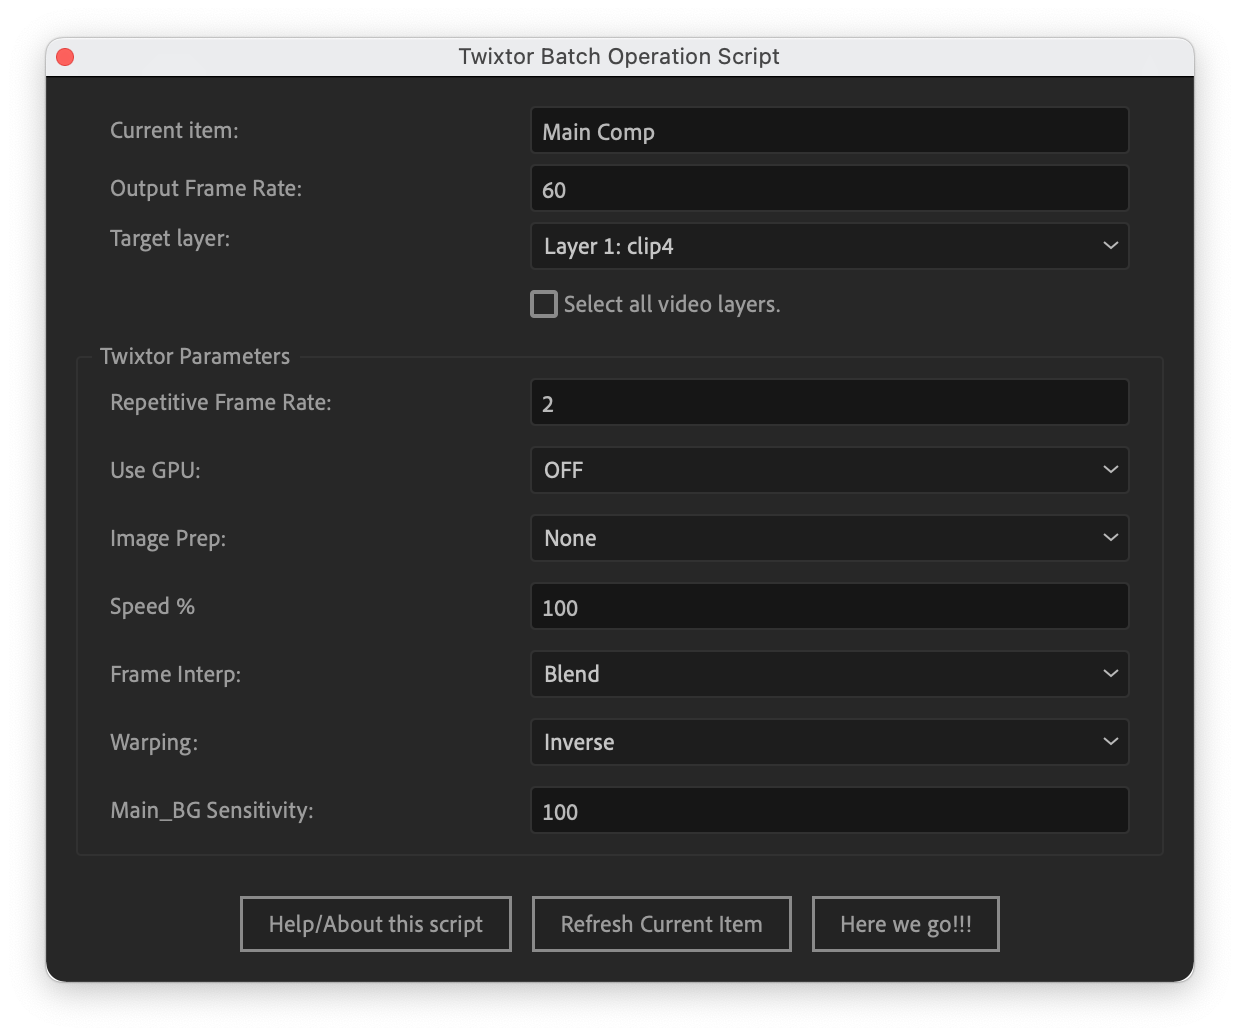
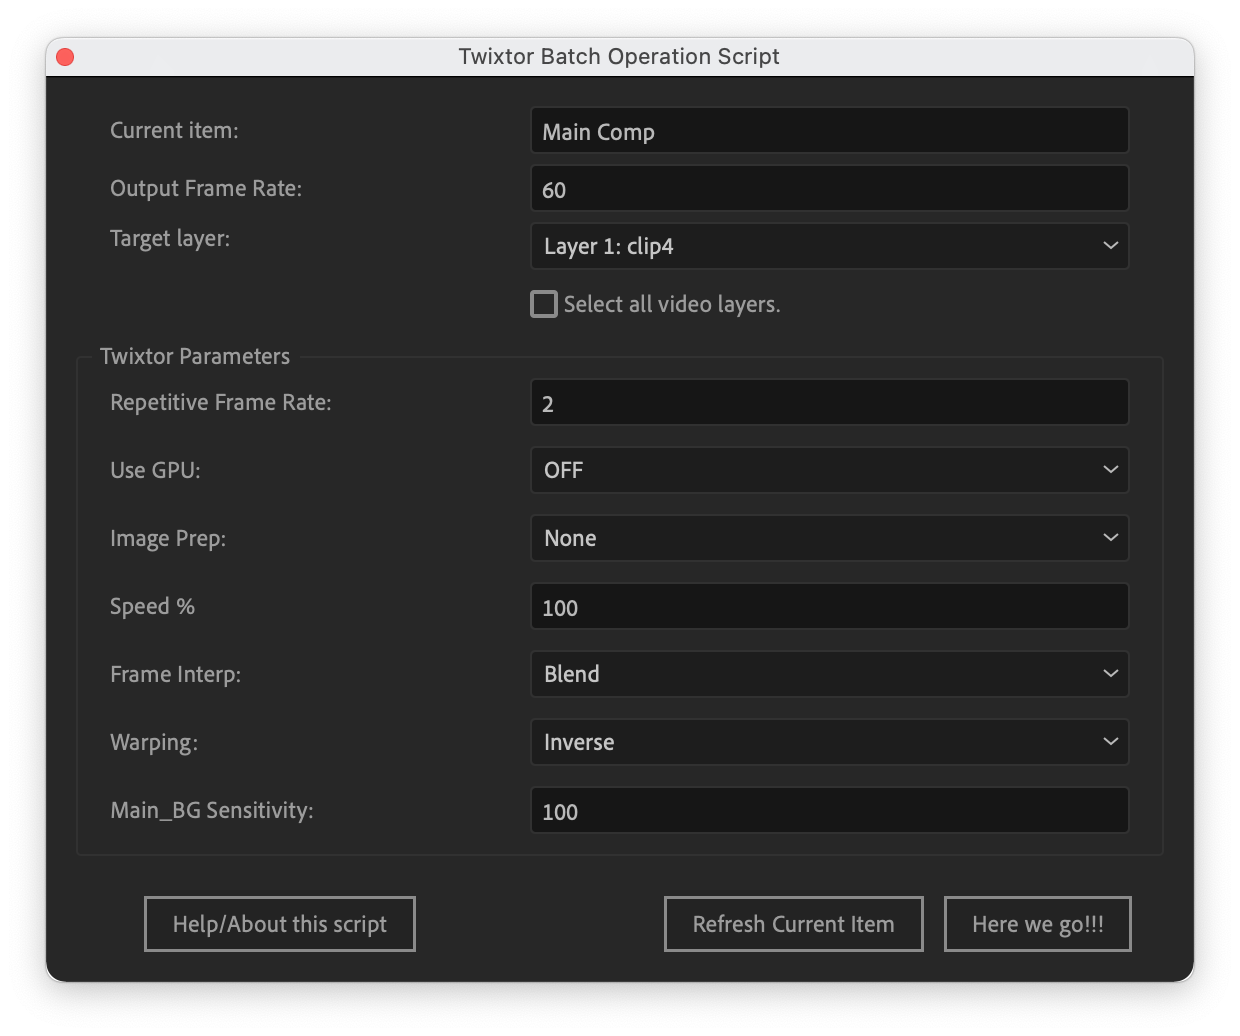
redesign the button alignment; add notation about repetitive frame rate into readme files; update the screenshot

Changed region(s): [[0.1226, 0.8649, 0.9194, 0.9266]]

diff --git a/twixtor-batch-operation-script.jsx b/twixtor-batch-operation-script.jsx
@@ -13,6 +13,7 @@
             // const graphic size variables
             const textWidth = 200;
             const inputWidth = 300;
+            const halfSizeWidth = (textWidth + inputWidth) / 2;
 
             // dropdown list choice data collection (initialization)
             var curComp = getCurrentComp();
@@ -100,7 +101,6 @@
                     var mainBgSensitivity = mainBgSensitivityGroup.add("edittext", undefined, 100);
                         mainBgSensitivity.preferredSize.width = inputWidth;
 
-
             // function of retrieving param inputs from twixtor panel
             function getTwixtorParams(comp)
             {
@@ -121,117 +121,127 @@
             }
 
             // Group of buttons
-            var buttonGroup = win.add("group", undefined, "button");
+            var buttonGroup = win.add("group {alignment: 'right'}", undefined, "button");
                 buttonGroup.orientation = "row";
                 buttonGroup.margins.top = 15;
-                var helpBtn = buttonGroup.add("button", undefined, "Help/About this script");
-                    helpBtn.onClick = function() {
-                        var helpWin = new Window("palette", "Help", undefined);
-                        var infoText = "This private script is totally free to use and available on Github.\n" + 
-                            "Github page: https://github.com/yanyiju/twixtor-batch-operation-script\n" +
-                            "You can raise any of your questions in the issue tab.\n" + 
-                            "Thanks for your feedback.\n\n" +
-                            "© Copyright Yijun Yan 2021";
-                        var info = helpWin.add("statictext", undefined, infoText, {multiline:true});
-                        info.preferredSize.width = 400;
-                        helpWin.onResizing = helpWin.onResize = function(){this.layout.resize();};
-                        helpWin instanceof Window
-                            ? (helpWin.center(), helpWin.show()) : (helpWin.layout.layout(true), helpWin.layout.resize());
-                    }
-                var refreshBtn = buttonGroup.add("button", undefined, "Refresh Current Item");
-                    refreshBtn.onClick = function(){
-                        curComp = getCurrentComp();
-                        activeLayerIDs = getActiveLayerIDs(curComp);
-                        activeLayerNames = getActiveLayerNames(curComp, activeLayerIDs);
-                        refreshDisplay(displayItem, app.project.activeItem.name);
-                        refreshDD(layerDD, activeLayerNames);
-                    };
-                var actBtn = buttonGroup.add("button", undefined, "Here we go!!!");
-                    actBtn.onClick = function(){
-                        // when curComp is null
-                        if (curComp == null) {
-                            alert("You haven't selected an composition!");
-                            return;
+                var helpBtnGroup = buttonGroup.add("group", undefined, "helpBtnGroup");
+                    helpBtnGroup.preferredSize.width = halfSizeWidth;
+                    helpBtnGroup.alignment = "left";
+                    var helpBtn = helpBtnGroup.add("button", undefined, "Help/About this script");
+                        helpBtn.onClick = function() {
+                            var helpWin = new Window("palette", "Help", undefined);
+                            var infoText = "This private script is totally free to use and available on Github.\n" + 
+                                "Github page: https://github.com/yanyiju/twixtor-batch-operation-script\n" +
+                                "You can raise any of your questions in the issue tab.\n" + 
+                                "Thanks for your feedback.\n\n" +
+                                "© Copyright Yijun Yan 2021";
+                            var info = helpWin.add("statictext", undefined, infoText, {multiline:true});
+                            info.preferredSize.width = 400;
+                            helpWin.onResizing = helpWin.onResize = function(){this.layout.resize();};
+                            helpWin instanceof Window
+                                ? (helpWin.center(), helpWin.show()) : (helpWin.layout.layout(true), helpWin.layout.resize());
                         }
-
-                        // build folder structure
-                        var scriptFolder = getFolderItemByName(scriptFolderName, null);
-                        var precompFolder = getFolderItemByName(precompFolderName, scriptFolder);
-                        var curCompFolder = getFolderItemByName(curComp.name, precompFolder);
-                        var curPrecomp1Folder = getFolderItemByName("precomp1", curCompFolder);
-                        var curPrecomp2Folder = getFolderItemByName("precomp2", curCompFolder);
-
-                        // find the final result comp for user to operate, or create a new one if not existed
-                        var resultCompName = curComp.name + "_script";
-                        var resultCompBackupName = resultCompName + "_backup";
-                        var resultComp = checkItemInFolder(resultCompName, CompItem, scriptFolder);
-                        var resultCompBackup = checkItemInFolder(resultCompBackupName, CompItem, scriptFolder);
-                        var isInitialOperation = resultComp == null;
-                        if (resultComp == null) {
-                            resultComp = curComp.duplicate();
-                            resultComp.parentFolder = scriptFolder;
-                            resultComp.name = resultCompName;
-                        } 
-                        if (resultCompBackup != null) {
-                            resultCompBackup.remove();
-                        }
-                        resultCompBackup = resultComp.duplicate();
-                        resultCompBackup.name = resultCompBackupName;
-
-                        // 'precomps' stores all script-built comps during this click action
-                        var precomps = [];
-
-                        // build twixtor-related structure
-                        try {
-                            // set the frame rate of result comp
-                            if (isValid(outputFrameRate.text)) {
-                                resultComp.frameDuration = 1/Number(outputFrameRate.text);
+                var operationBtnGroup = buttonGroup.add("group", undefined, "operationBtnGroup");
+                    operationBtnGroup.orientation = "row";
+                    operationBtnGroup.preferredSize.width = halfSizeWidth;
+                    var refreshBtn = operationBtnGroup.add("button", undefined, "Refresh Current Item");
+                        refreshBtn.onClick = function(){
+                            curComp = getCurrentComp();
+                            activeLayerIDs = getActiveLayerIDs(curComp);
+                            activeLayerNames = getActiveLayerNames(curComp, activeLayerIDs);
+                            if (curComp != null) {
+                                refreshDisplay(displayItem, curComp.name);
                             } else {
-                                throw "Only number values can be accepted in output frame rate setting.";
+                                alert("No active composition detected! Please open or select a composition.");
+                            }
+                            refreshDD(layerDD, activeLayerNames);
+                        };
+                    var actBtn = operationBtnGroup.add("button", undefined, "Here we go!!!");
+                        actBtn.onClick = function(){
+                            // when curComp is null
+                            if (curComp == null) {
+                                alert("You haven't selected an composition!");
+                                return;
                             }
 
-                            // get all target layers' ids
-                            var targetLayerIDs = null;
-                            if (layerDD.selection != null) {
-                                targetLayerIDs = [activeLayerIDs[layerDD.selection.index]];
-                            }
-                            if (checkbox.value) {
-                                targetLayerIDs = activeLayerIDs;
-                            }
+                            // build folder structure
+                            var scriptFolder = getFolderItemByName(scriptFolderName, null);
+                            var precompFolder = getFolderItemByName(precompFolderName, scriptFolder);
+                            var curCompFolder = getFolderItemByName(curComp.name, precompFolder);
+                            var curPrecomp1Folder = getFolderItemByName("precomp1", curCompFolder);
+                            var curPrecomp2Folder = getFolderItemByName("precomp2", curCompFolder);
 
-                            // main service part
-                            for (var i = 0; i < targetLayerIDs.length; i++) {
-                                var twixtorParams = getTwixtorParams(curComp);
-                                var targetLayerID = targetLayerIDs[i];
-                                var targetLayerName = resultComp.layer(targetLayerID).name;
-                                if (targetLayerName.match(/[\S]+_precomp2/) != null) {
-                                    alert("Comp (" + targetLayerName + ") already exists. Ignored!");
-                                } else if (twixtorParams != undefined) {
-                                    var comps = precompseAndApplyTwixtor(resultComp, targetLayerID, twixtorParams, curPrecomp1Folder, curPrecomp2Folder);
-                                    precomps = precomps.concat(comps);
-                                }
-                            }
-
-                            // update and display result comp
-                            resultComp.openInViewer().setActive();
-                            resultCompBackup.remove();
-                        } catch(err) {
-                            // remove the new-built comps in this operation        
-                            for (var i = 0; i < precomps.length; i++) {
-                                precomps[i].remove();
-                            }
-
-                            // recover the original result comp if it existed
-                            resultComp.remove();
-                            if (isInitialOperation) {
+                            // find the final result comp for user to operate, or create a new one if not existed
+                            var resultCompName = curComp.name + "_script";
+                            var resultCompBackupName = resultCompName + "_backup";
+                            var resultComp = checkItemInFolder(resultCompName, CompItem, scriptFolder);
+                            var resultCompBackup = checkItemInFolder(resultCompBackupName, CompItem, scriptFolder);
+                            var isInitialOperation = resultComp == null;
+                            if (resultComp == null) {
+                                resultComp = curComp.duplicate();
+                                resultComp.parentFolder = scriptFolder;
+                                resultComp.name = resultCompName;
+                            } 
+                            if (resultCompBackup != null) {
                                 resultCompBackup.remove();
-                            } else {
-                                resultCompBackup.name = resultCompName;
                             }
+                            resultCompBackup = resultComp.duplicate();
+                            resultCompBackup.name = resultCompBackupName;
 
-                            alert(err);
-                        }
-                    };
+                            // 'precomps' stores all script-built comps during this click action
+                            var precomps = [];
+
+                            // build twixtor-related structure
+                            try {
+                                // set the frame rate of result comp
+                                if (isValid(outputFrameRate.text)) {
+                                    resultComp.frameDuration = 1/Number(outputFrameRate.text);
+                                } else {
+                                    throw "Only number values can be accepted in output frame rate setting.";
+                                }
+
+                                // get all target layers' ids
+                                var targetLayerIDs = null;
+                                if (layerDD.selection != null) {
+                                    targetLayerIDs = [activeLayerIDs[layerDD.selection.index]];
+                                }
+                                if (checkbox.value) {
+                                    targetLayerIDs = activeLayerIDs;
+                                }
+
+                                // main service part
+                                for (var i = 0; i < targetLayerIDs.length; i++) {
+                                    var twixtorParams = getTwixtorParams(curComp);
+                                    var targetLayerID = targetLayerIDs[i];
+                                    var targetLayerName = resultComp.layer(targetLayerID).name;
+                                    if (targetLayerName.match(/[\S]+_precomp2/) != null) {
+                                        alert("Comp (" + targetLayerName + ") already exists. Ignored!");
+                                    } else if (twixtorParams != undefined) {
+                                        var comps = precompseAndApplyTwixtor(resultComp, targetLayerID, twixtorParams, curPrecomp1Folder, curPrecomp2Folder);
+                                        precomps = precomps.concat(comps);
+                                    }
+                                }
+
+                                // update and display result comp
+                                resultComp.openInViewer().setActive();
+                                resultCompBackup.remove();
+                            } catch(err) {
+                                // remove the new-built comps in this operation        
+                                for (var i = 0; i < precomps.length; i++) {
+                                    precomps[i].remove();
+                                }
+
+                                // recover the original result comp if it existed
+                                resultComp.remove();
+                                if (isInitialOperation) {
+                                    resultCompBackup.remove();
+                                } else {
+                                    resultCompBackup.name = resultCompName;
+                                }
+
+                                alert(err);
+                            }
+                        };
 
             win.onResizing = win.onResize = function() {
                 this.layout.resize();

diff --git a/README.md b/README.md
@@ -8,10 +8,12 @@ The script will do all the stuff from precomposing layers, adding twixtor effect
 This script is initially designed for AMV makers. The twixtor usage tutorial can be easily found on youtube, so if you don't know what twixtor is, please check it yourself.
 
 ![screenshot](screenshot.png)<br>
-Screenshot of the script UI.
+Screenshot of the script UI. 
+
+***Repetitive Frame Rate*** refers to how many frames each unique scene takes. For example, for Anime video, this value is often 2 or 3 under 24fps, which means every original paintings will last for 2 or 3 frames and during every second (24 frames), there are 24/2=12 or 24/3=8 original paintings. For other 3D filming, this value is often 1. This value is used by the script for computing the input frame rate in twixtor paramenters, so as to remove the repetitive frames.
 
 # Installation
-Put the .jsx file into
+Put the ```.jsx``` file into
 
 * :open_file_folder: ```<Ae installation folder>/support file/script/```
 

diff --git a/README_CN.md b/README_CN.md
@@ -10,6 +10,8 @@
 ![截图](screenshot.png)<br>
 脚本运行截图。
 
+***Repetitive Frame Rate***（重复帧率）指的是每个独特场景会持续几帧，俗称一拍几。举个例子，对于一个24fps动漫视频，这个值通常是2（一拍二）或3（一拍三），即每幅原画会持续2到3帧，所以视频中的每秒24帧需要24/2=12或者24/3=8幅原画。对于其他三次元拍摄的视频，这个重复率通常是1。脚本需要通过这个值来修改twixtor的输入帧率参数（Input: Frame Rate），从而去除重复帧。
+
 # 安装
 请将```.jsx```脚本文件放置于
 
@@ -19,7 +21,7 @@
 
 * :open_file_folder: ```<Ae安装文件夹>/support file/script/ScriptUI Panels/```
 
-然后重启Ae后，在一下菜单栏中找到并运行
+然后重启Ae后，在以下菜单栏中找到并运行
 
 * <kbd>file</kbd>><kbd>scripts</kbd>><kbd>twixtor-batch-operation-script.jsx</kbd> 
 
